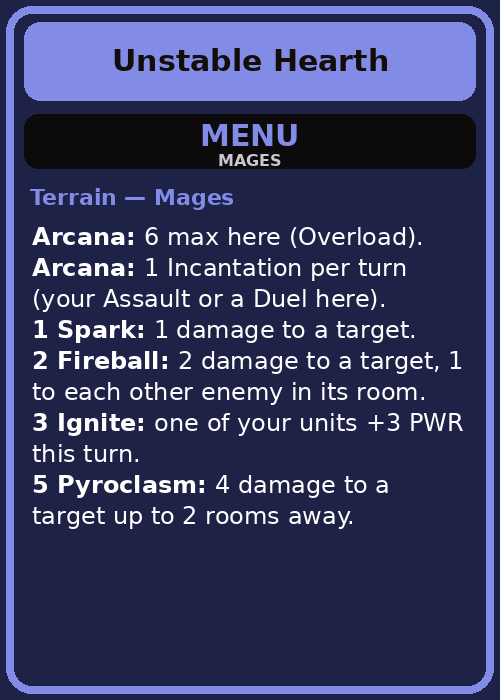
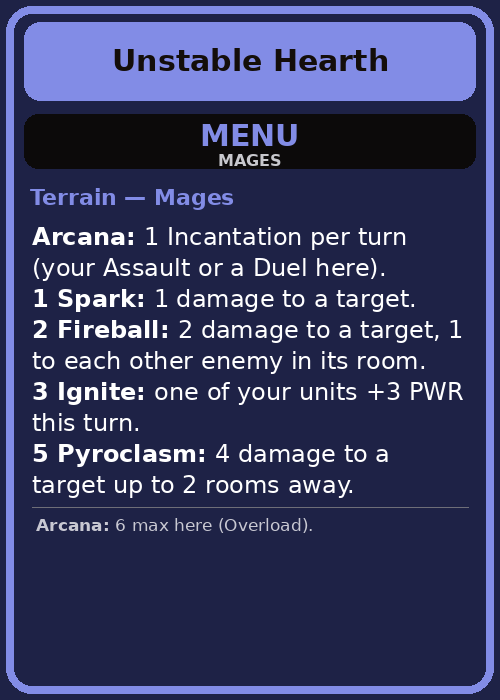
Menu des Terrains : max de ressources en bas, à la place des rappels
Claude-Session: https://claude.ai/code/session_01QvtSYsgdcPMk13PXEMpjsE

Changed region(s): [[0.06, 0.3, 0.93, 0.78]]

diff --git a/tools/from_bible.py b/tools/from_bible.py
@@ -158,6 +158,14 @@ def rappels_pour(texte, lang="fr"):
     return out
 
 
+def cap_note(cap, lang="fr"):
+    """« Sève : 4 max ici. » -> rappel en gras comme ceux du lexique."""
+    if not cap:
+        return None
+    terme, sep, reste = cap.partition(" : " if lang == "fr" else ": ")
+    return f"**{terme}**{sep}{reste}" if lang == "fr" else f"**{terme}:** {reste}"
+
+
 def invoque(texte):
     t = texte.lower()
     return [j for j in ("pousse", "loup") if j in t and "jeton." not in t]
@@ -206,8 +214,13 @@ def cartes_guildes():
                 recto_en, _, verso_en = texte_en.partition(" || ")
                 c["en"]["text"] = terrain_rich(recto_en, lang_en)
                 if verso:
-                    c["back"] = dict(text=terrain_rich(verso), recto=False, big="MENU")
-                    c["en"]["back"] = dict(text=terrain_rich(verso_en, lang_en))
+                    # 1re ligne du menu « Sève : 4 max ici. » : imprimée en bas, à la place des rappels.
+                    cap, _, reste = verso.partition(" / ")
+                    cap_en, _, reste_en = verso_en.partition(" / ")
+                    if " max " not in cap:
+                        cap, reste, cap_en, reste_en = "", verso, "", verso_en
+                    c["back"] = dict(text=terrain_rich(reste), recto=False, big="MENU", note=cap_note(cap))
+                    c["en"]["back"] = dict(text=terrain_rich(reste_en, lang_en), note=cap_note(cap_en, lang_en))
             out.append(c)
     return out
 
@@ -305,7 +318,7 @@ def ecrire_cartes(cards_list):
             if c.get("back"):
                 back = dict(c["back"], **(en.get("back") or {})) if lang == "en" else c["back"]
                 b = dict(v, **back, verso=True, back=None)
-                b["rappels"] = []  # menu : pas de rappel des mots-clés (choix de Lucas)
+                b["rappels"] = [b["note"]] if b.get("note") else []  # menu : seulement le max de ressources (choix de Lucas)
                 dessiner(b, os.path.join(out_dir, f"{c['id']}-verso{suffixe[lang]}.png"), lang)
                 noms_b[lang], images_b[lang] = b["name"], f"{BASE}/img/cards/{c['id']}-verso{suffixe[lang]}.png"
         nom = par_langue(noms["fr"], noms["en"])
